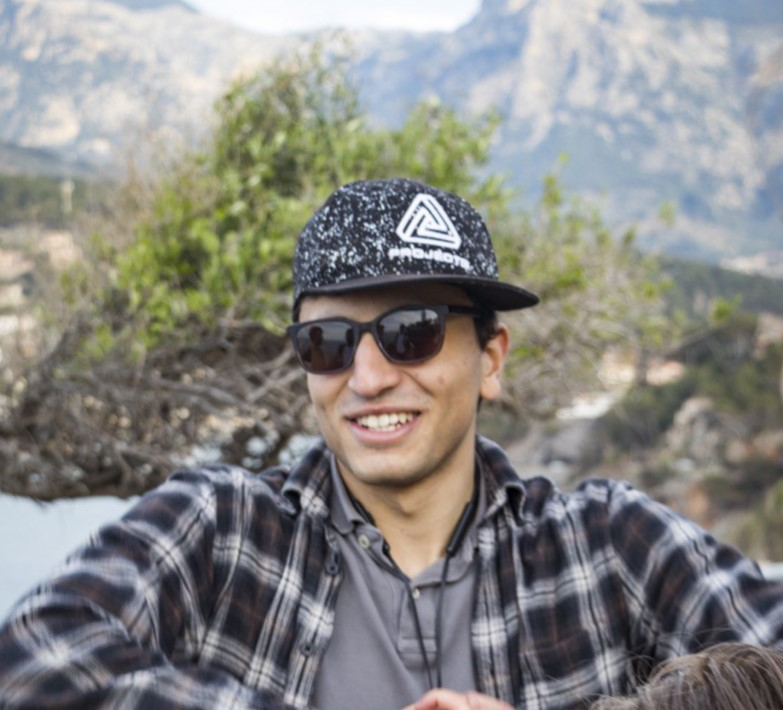
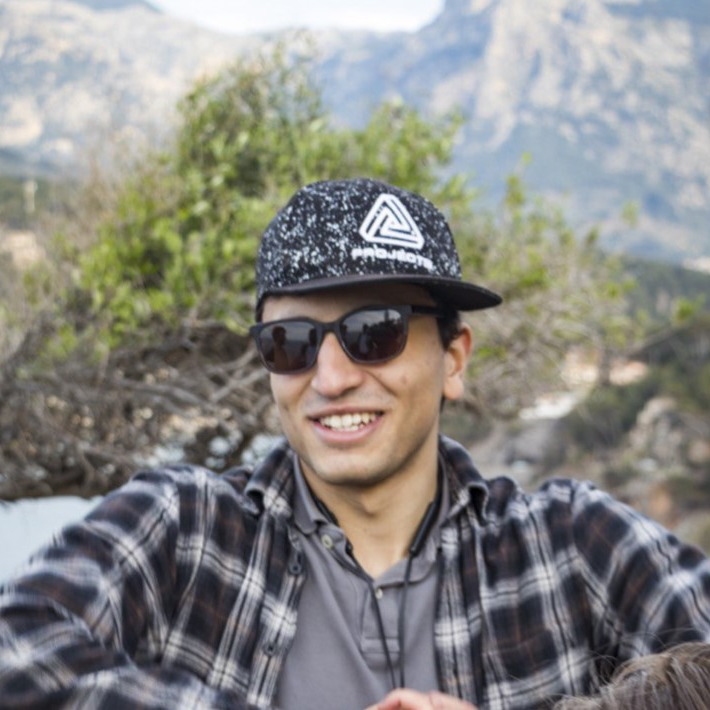
Fix team images and take out privacy policy

diff --git a/src/lib/components/ui/Footer.svelte b/src/lib/components/ui/Footer.svelte
@@ -8,7 +8,7 @@
   <p>&copy; 2025 HPI Pokerbot Competition. All rights reserved.</p>
   <div class="flex justify-center space-x-4 mt-2">
     <a class="text-secondary-foreground" href="https://hpi.de">HPI</a>
-    <a class="text-secondary-foreground" href="{base}/privacy-policy">Privacy Policy</a>
+    <!-- <a class="text-secondary-foreground" href="{base}/privacy-policy">Privacy Policy</a> -->
     <a class="text-secondary-foreground" href="{base}/imprint">Imprint</a>
     <span class="text-secondary-foreground"><Email text="Contact" /></span>
     <a class="text-secondary-foreground" href="{base}/code-of-conduct">Code of Conduct</a>

diff --git a/src/lib/components/content/Team.svelte b/src/lib/components/content/Team.svelte
@@ -58,7 +58,6 @@
   }
 
   .team-section .team-members {
-    padding: 2rem;
     text-align: center;
     display: flex;
     justify-content: center;
@@ -72,7 +71,8 @@
   .team-section .team-member img {
     aspect-ratio: 1;
     border-radius: 50%;
-    width: 10rem;
+    width: 150px;
+    height: auto;
     object-fit: cover;
   }
 
